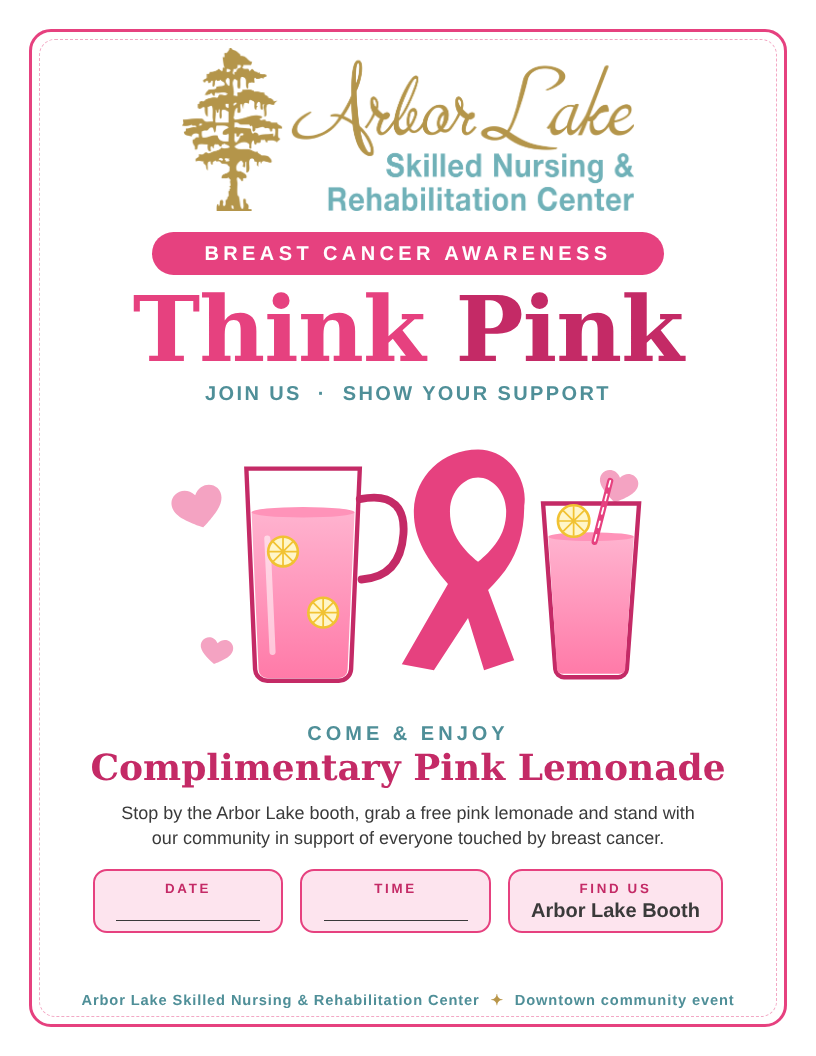
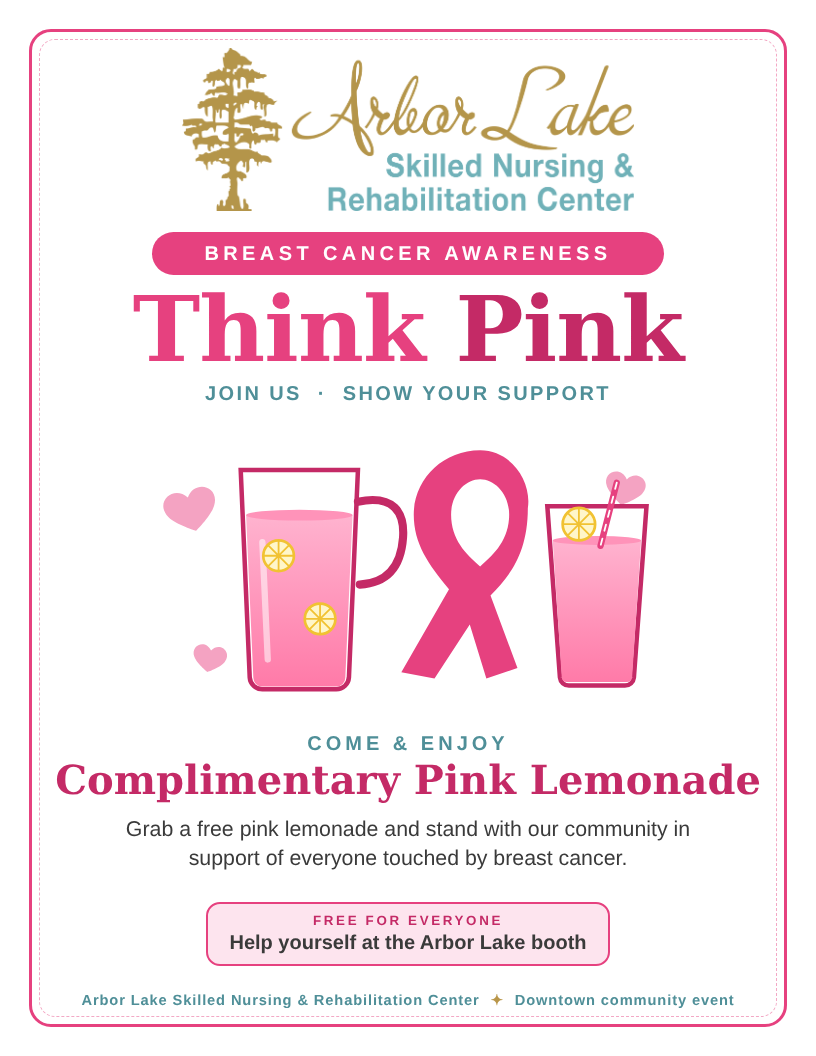
Make flyer a table sign: drop date/time
Claude-Session: https://claude.ai/code/session_01NNqe39hNewfGEUkioAfG2Z

diff --git a/flyers/think-pink-flyer.html b/flyers/think-pink-flyer.html
@@ -64,7 +64,7 @@
   }
 
   .hero {
-    position: relative; margin-top: 0.2in; width: 100%; height: 3in;
+    position: relative; margin-top: 0.2in; width: 100%; height: 3.1in;
     display: flex; align-items: center; justify-content: center;
   }
   .hero svg { height: 100%; width: auto; }
@@ -72,7 +72,7 @@
   .offer {
     margin-top: 0.1in;
     font-family: "DejaVu Serif", Georgia, serif;
-    font-size: 27pt; font-weight: 700; color: var(--pink-deep); white-space: nowrap; line-height: 1.1;
+    font-size: 30pt; font-weight: 700; color: var(--pink-deep); white-space: nowrap; line-height: 1.1;
   }
   .offer small {
     display: block; font-family: "Liberation Sans", Helvetica, sans-serif;
@@ -80,10 +80,10 @@
     color: var(--teal-dark); margin-bottom: 4px;
   }
   .invite {
-    margin-top: 0.14in; font-size: 13.5pt; line-height: 1.35; max-width: 6.2in; color: var(--ink);
+    margin-top: 0.14in; font-size: 16pt; line-height: 1.35; max-width: 6.2in; color: var(--ink);
   }
   .details {
-    margin-top: 0.2in;
+    margin-top: 0.3in;
     display: flex; gap: 0.18in; justify-content: center;
   }
   .detail {
@@ -163,12 +163,10 @@
     </div>
 
     <div class="offer"><small>Come &amp; enjoy</small>Complimentary Pink Lemonade</div>
-    <p class="invite">Stop by the Arbor Lake booth, grab a free pink lemonade and stand with our community in support of everyone touched by breast cancer.</p>
+    <p class="invite">Grab a free pink lemonade and stand with our community in support of everyone touched by breast cancer.</p>
 
     <div class="details">
-      <div class="detail"><b>Date</b><span class="blank"></span></div>
-      <div class="detail"><b>Time</b><span class="blank"></span></div>
-      <div class="detail"><b>Find Us</b><span>Arbor Lake Booth</span></div>
+      <div class="detail"><b>Free for everyone</b><span>Help yourself at the Arbor Lake booth</span></div>
     </div>
 
     <div class="footer">Arbor Lake Skilled Nursing &amp; Rehabilitation Center <i>✦</i> Downtown community event</div>
